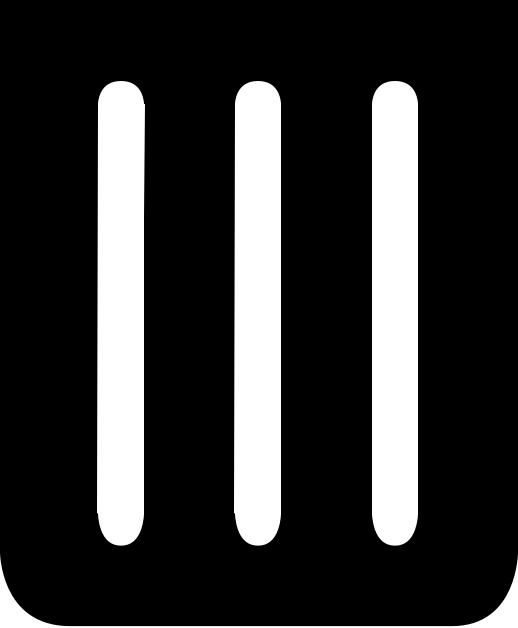
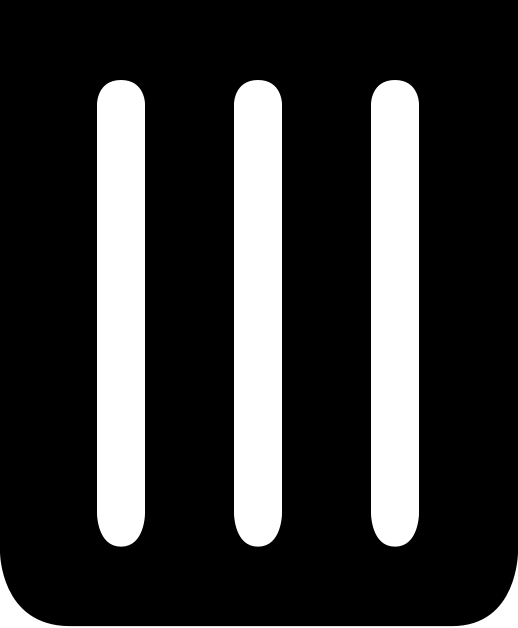
Updated readme
- fixed trash can images

 - Updated size on layout images

diff --git a/readme.md b/readme.md
@@ -1,13 +1,13 @@
 # thirteen23 iOS Exercise
 
 ## Instructions
-Create a simple app that contains a grid of images based on the below specification. Your submission will be judged on both code quality and user experience.
+Create a simple app that contains a grid of images based on the below specification. Your submission will be judged on both user experience and code quality.
 
 ## Requirements / Restrictions
 - Use proper git procedures and link us to the repository (Github, Bitbucket, etc…)
 - Do not use any third party libraries.
 - Do not use storyboards or xibs. Everything should be built programmatically.
-- Use your own best judgement for the design that is not addressed in the specification.
+- Use your own best judgment on how to creatively handle any edge cases, design or UX not addressed in the specification.
 - Assume you are delivering the source code to a client.
 
 ## Specifications
@@ -31,7 +31,7 @@ The wireframe below demonstrates all of the necessary UI elements. The trash can
 ![](./layout.png)
 
 ###Layout with missing image
-![](./layout missing.png)
+![](./layout-missing.png)
 
 ## Caveats
 Images are hosted on S3 for more information about this issue, see:
